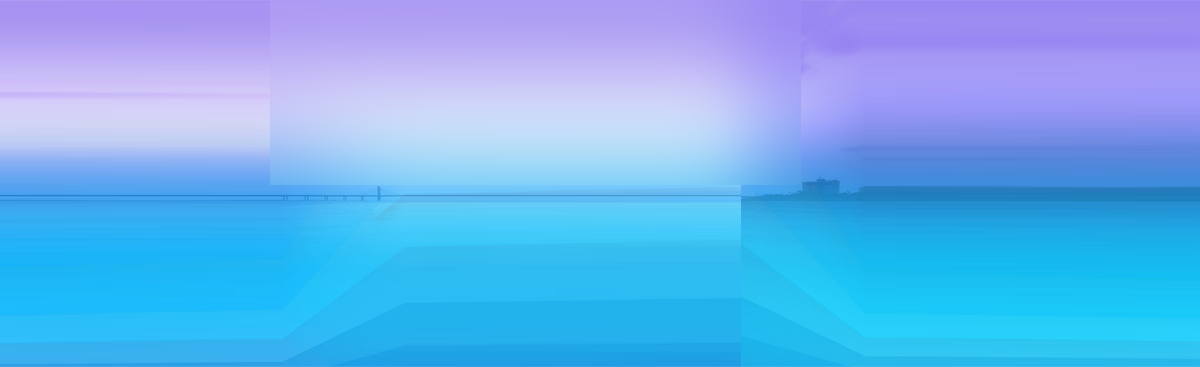
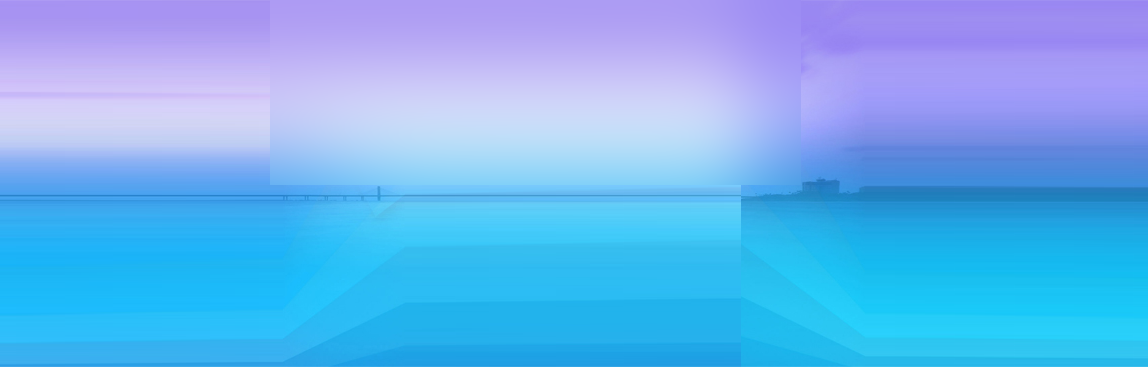
Added back to top updated header img

Changed region(s): [[0.6098, 0.4796, 0.7622, 0.6294]]

diff --git a/index.html b/index.html
@@ -26,12 +26,12 @@
     <link rel="stylesheet" href="./css/pages/home.css">
 </head>
 <body>
-    <section class="container bg-blue">
-        <div class="short-row hero">
-            <img class="logo" src="./img/logo.png" alt="logo">
-            <h1 class="main-title">Coming Soon</h1>
+    <section class="container hero bg-blue">
+        <div class="short-row">
+            <img class="logo" src="./img/logo.png" alt="Logo">
+            <h1 class="main-title">Coming soon</h1>
             <p class="main-description">An awesome new company for web resources is coming very soon. Enter your email to request an early invitation!</p>
-                        <div class="clock">
+            <div class="clock">
                 <div class="time">
                     <div class="value">432</div>
                     <div class="label">Days</div>
@@ -93,14 +93,17 @@
         </div>
     </section>
     <footer class="container bg-blue">
-        <div class="row socials">
-            <a href="#" class="fa fa-facebook"></a>
-            <a href="#" class="fa fa-twitter"></a>
-            <a href="#" class="fa fa-dribbble"></a>
-            <a href="#" class="fa fa-tumblr"></a>
-            <a href="#" class="fa fa-linkedin"></a>
-            <a href="#" class="fa fa-instagram"></a>
-            <a href="#" class="fa fa-rss"></a>
+        <div class="row">
+            <div class="socials">
+                <a href="#" class="fa fa-facebook"></a>
+                <a href="#" class="fa fa-twitter"></a>
+                <a href="#" class="fa fa-dribbble"></a>
+                <a href="#" class="fa fa-tumblr"></a>
+                <a href="#" class="fa fa-linkedin"></a>
+                <a href="#" class="fa fa-instagram"></a>
+                <a href="#" class="fa fa-rss"></a>
+            </div>
+            <a href="#" class="back-to-top fa fa-angle-up"></a>
         </div>
         <div class="short-row bottom">
             <img class="logo" src="./img/logo-white.png" alt="Logo">

diff --git a/css/pages/home.css b/css/pages/home.css
@@ -1,4 +1,13 @@
-.container > .hero {
+.container.hero {
+    background-color: red;
+    background-image: url(../../img/background.png);
+    background-position: bottom;
+    background-size: cover;
+    background-attachment: fixed;
+    min-height: 100vh;
+}
+
+.container.hero > .short-row {
     display: flex;
     flex-direction: column;
     align-items: center;
@@ -39,14 +48,18 @@ footer.container {
     padding-top: 0;
 }
 
-.row.socials {
+footer.container > .row {
     justify-content: center;
-    gap: 1em;
     padding-top: 0.5em;
     padding-bottom: 0.5em;
     margin-bottom: 2em;
-    font-size: 20px;
     border-bottom: 1px solid #fff;
+    position: relative;
+}
+.row .socials {
+    justify-content: center;
+    gap: 1em;
+    font-size: 20px;
 }
 .socials > a {
     width: 2.5em;
@@ -61,6 +74,25 @@ footer.container {
 .socials > a:hover {
     background-color: #fff;
     color: var(--main-color);
+}
+
+.back-to-top {
+    background-color: var(--secondary-color);
+    width: 50px;
+    height: 50px;
+    border-radius: 50%;
+    position: absolute;
+    top: -30px;
+    right: -15px;
+    color: #fff;
+    font-size: 30px;
+    text-align: center;
+    line-height: 50px;
+    text-decoration: none;
+    transition: all 0.5s;
+}
+.back-to-top:hover {
+    box-shadow: 0 3px 6px #0005;
 }
 
 .bottom {

diff --git a/css/base/layout.css b/css/base/layout.css
@@ -1,21 +1,22 @@
 .container {
     width: 100%;
-    padding-top: 60px;
-    padding-bottom: 60px;
+    padding: 60px 0;
 }
 
 .container > .row {
+    --w: 1000px;
     display: flex;
     justify-content: space-between;
     flex-wrap: wrap;
     gap: 60px 0;
-    width: 1000px;
-    margin-left: calc(50% - 500px);
+    width: var(--w);
+    margin: 0 calc((100% - var(--w)) / 2);
 }
 
 .container > .short-row {
-    width: 600px;
-    margin-left: calc(50% - 300px);
+    --w: 600px;
+    width: var(--w);
+    margin: 0 calc((100% - var(--w)) / 2);
 }
 
 .container > .row > .column {
@@ -30,15 +31,13 @@
 
 @media (max-width: 1100px) {
     .container > .row {
-        width: 800px;
-        margin-left: calc(50% - 400px);
+        --w: 800px;
     }
 }
 
 @media (max-width: 900px) {
     .container > .row {
-        width: 600px;
-        margin-left: calc(50% - 300px);
+        --w: 600px;
     }
 }
 
@@ -50,8 +49,7 @@
 
     .container > .row,
     .container > .short-row {
-        width: 100%;
-        margin-left: 0;
+        --w: 100%;
     }
     .container > .row > .column {
         width: 100%;

diff --git a/css/base/base.css b/css/base/base.css
@@ -3,6 +3,10 @@
     --secondary-color: #ea1e63;
 }
 
+html {
+    scroll-behavior: smooth;
+}
+
 body,
 body * {
     margin: 0;
